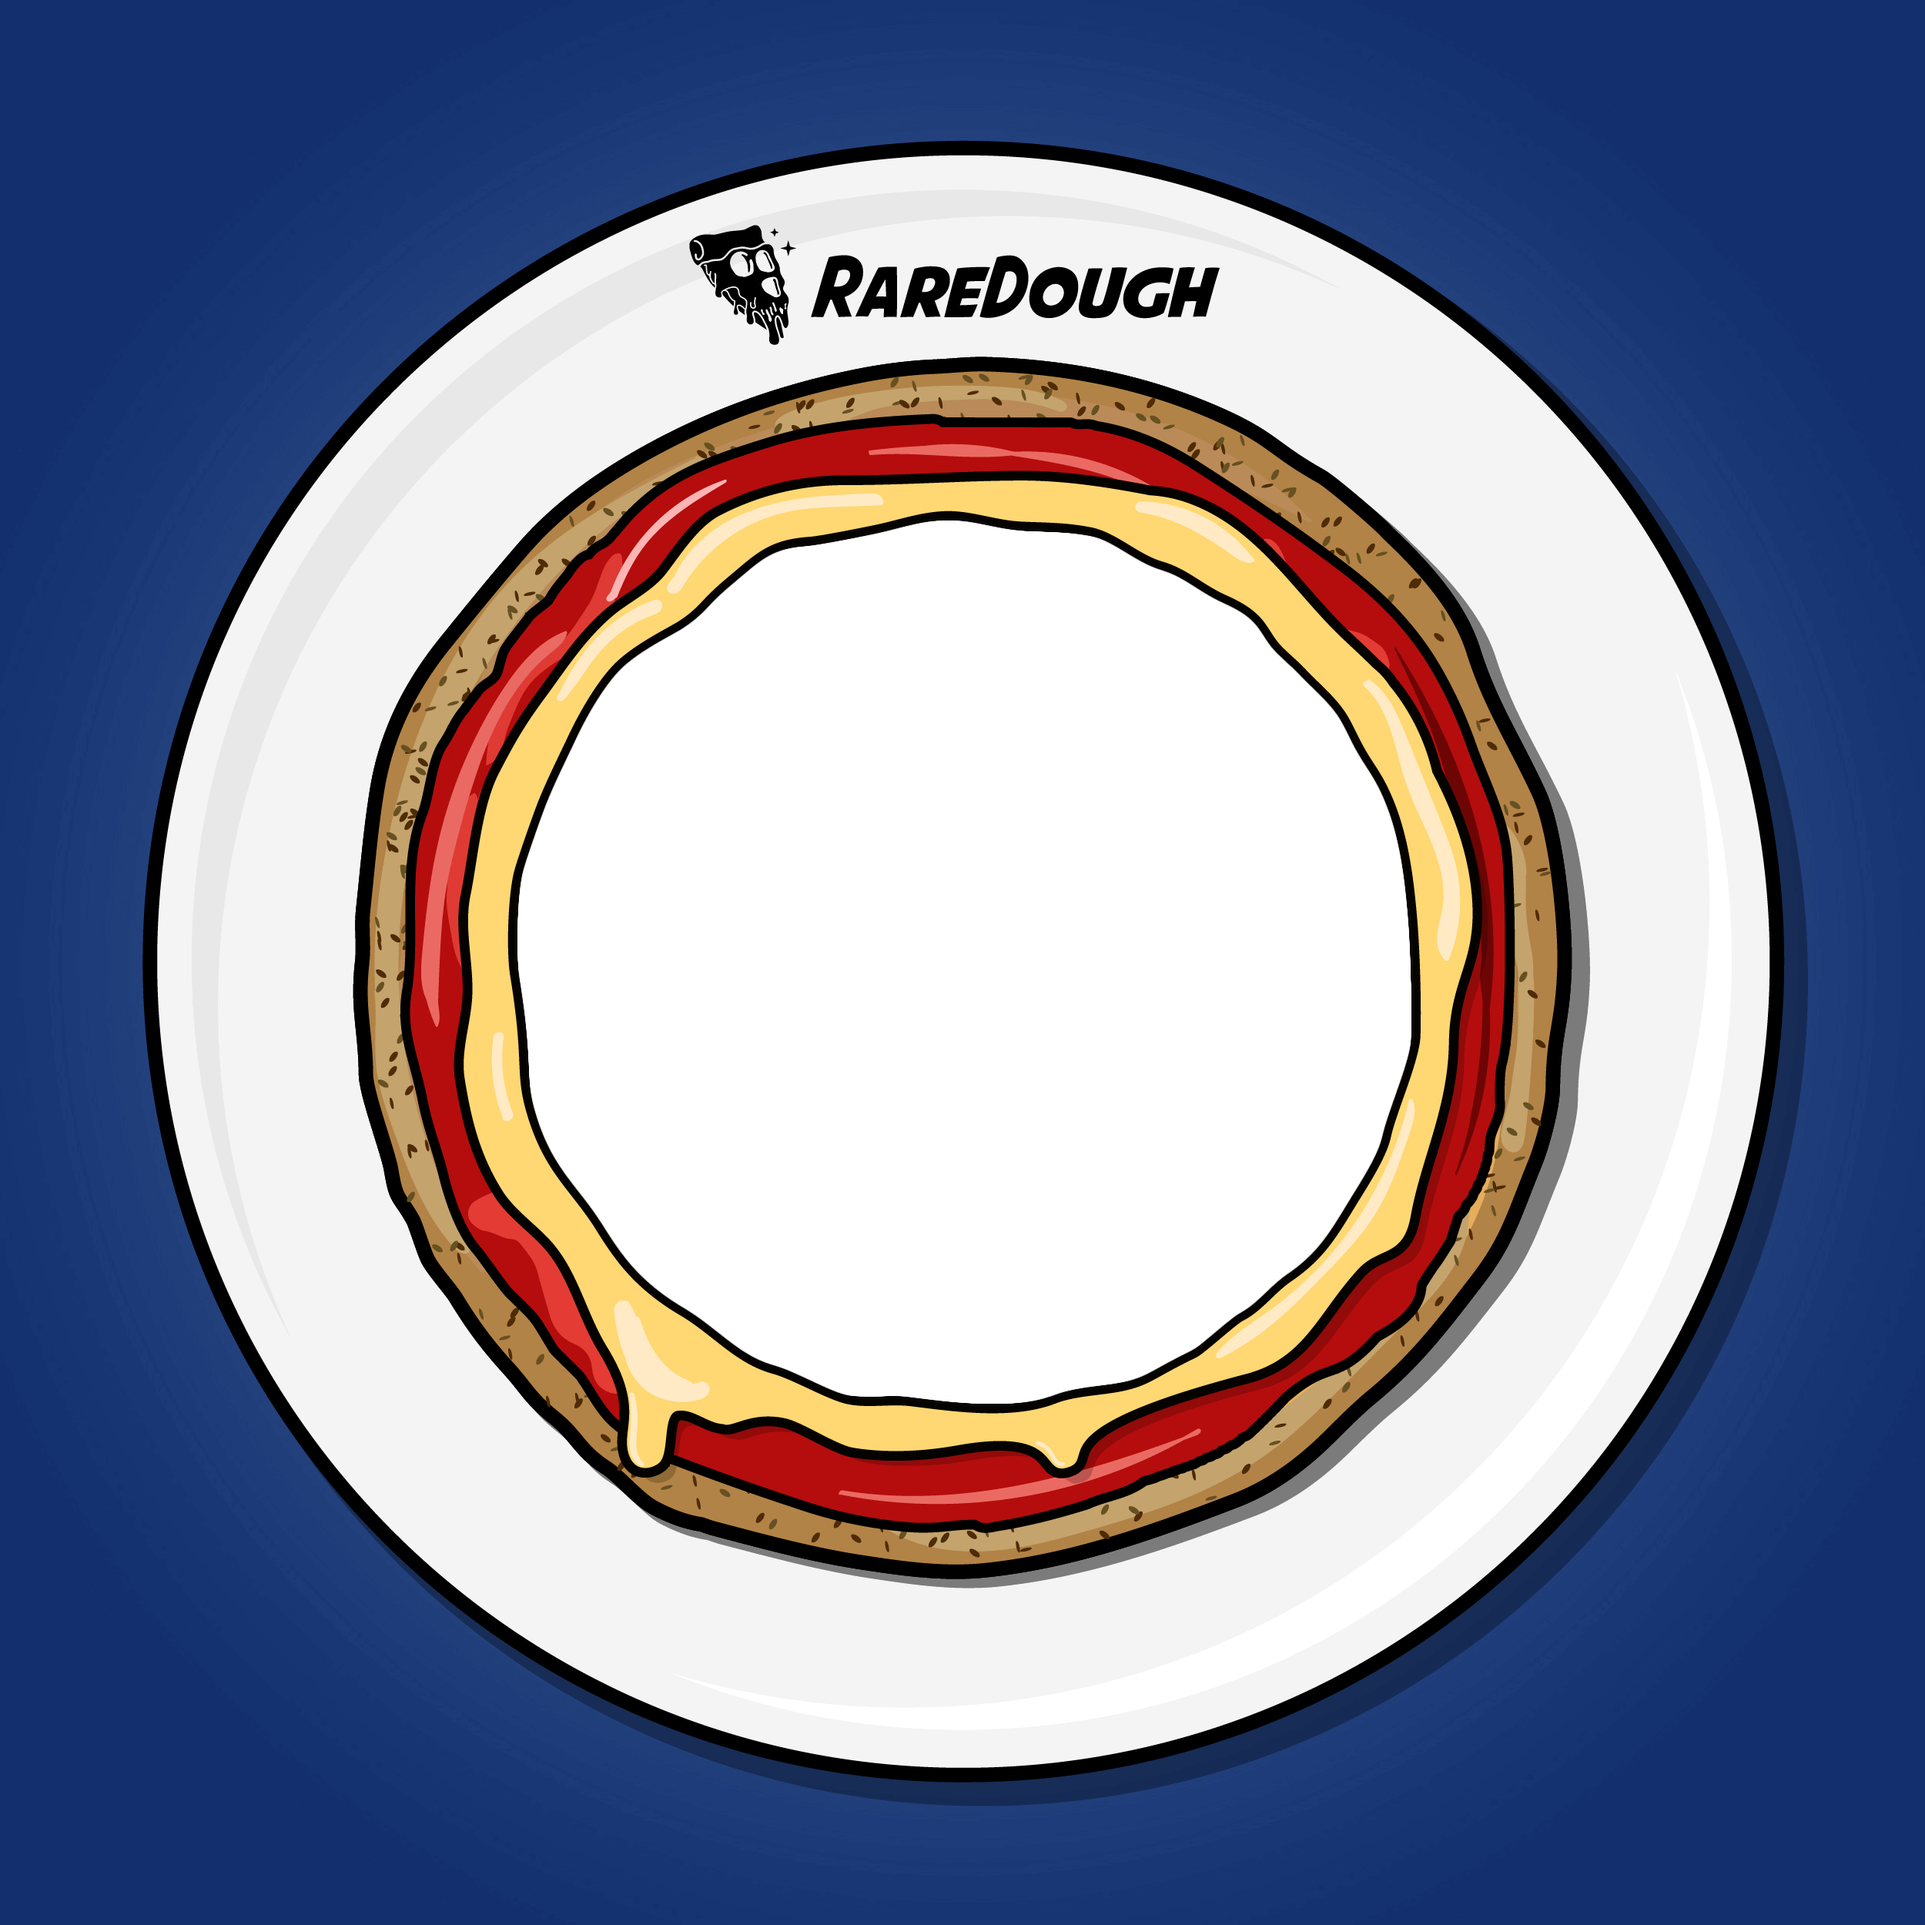
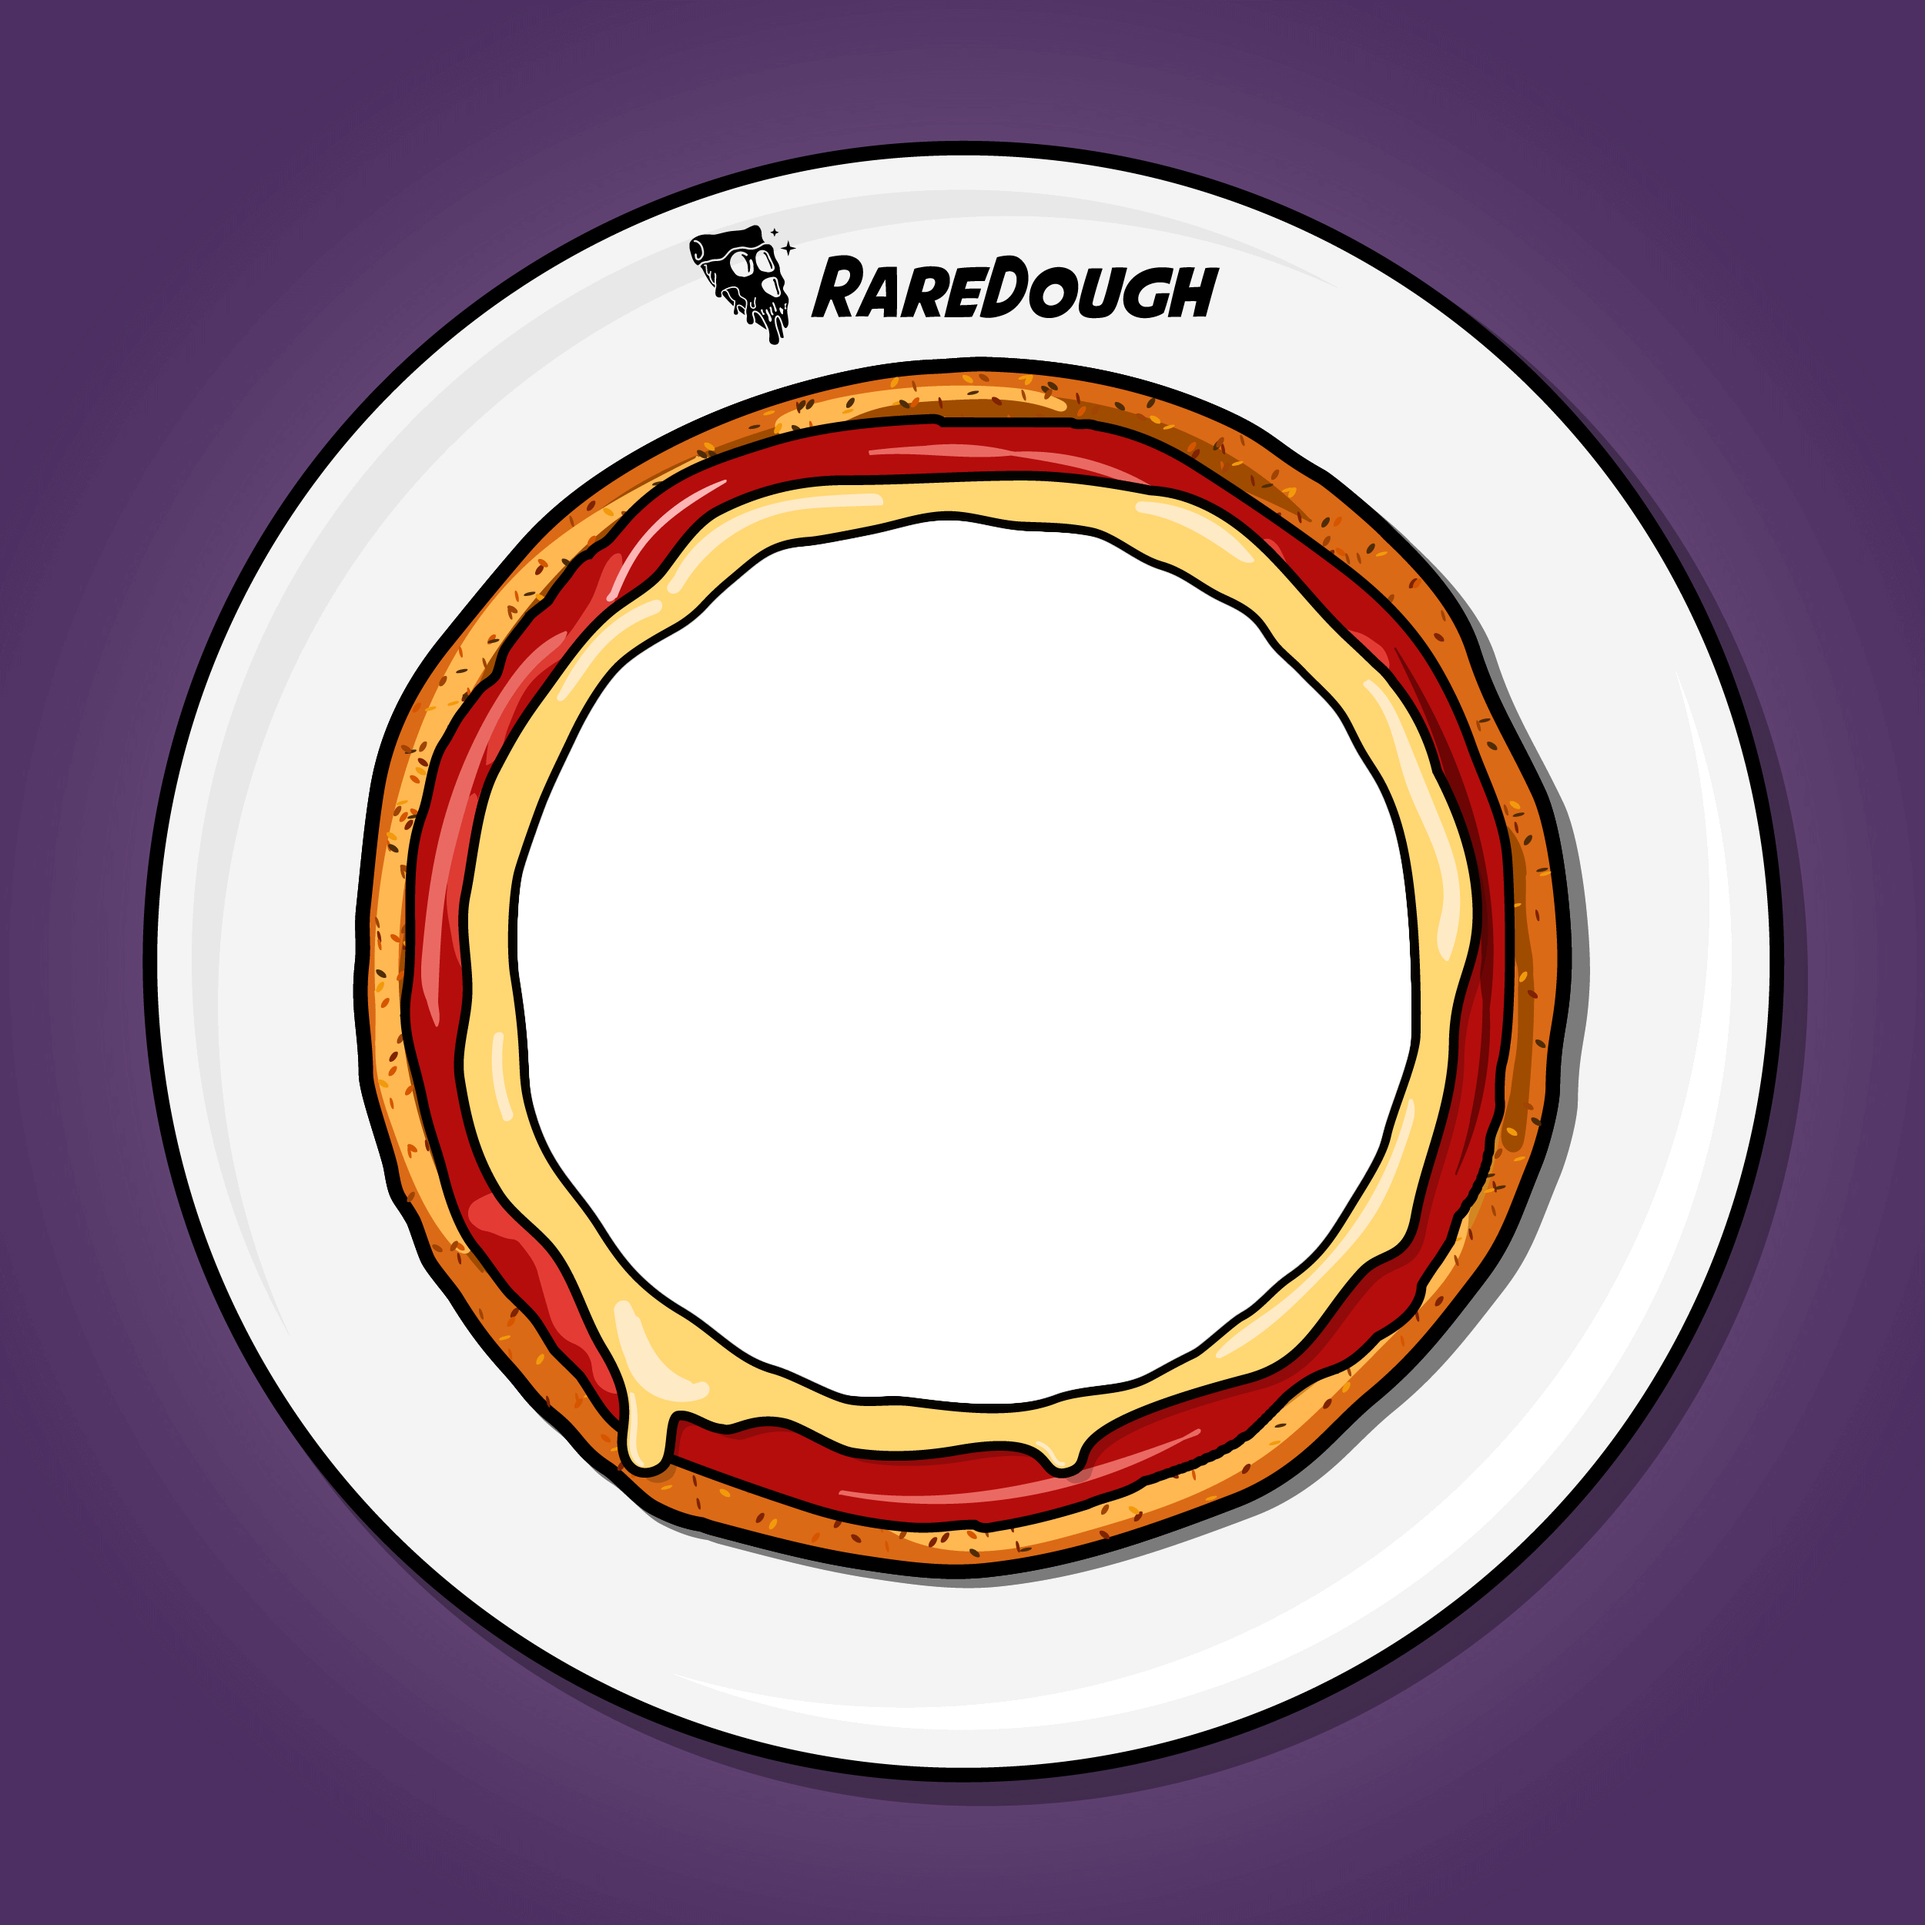
Additional changes to pizza form

diff --git a/js/community-pizza-form.js b/js/community-pizza-form.js
@@ -227,8 +227,9 @@
 		let $this = $(this);
 
 		if (!$this.attr('disabled')) {
-			// Get supply value
-			let tokenSupply = $('input[name="token-select-box"]:checked').val();
+			// Get supply value and set default token price
+			let tokenSupply = $('input[name="token-select-box"]:checked').val(),
+				tokenPrice = '100';
 
 			// Disable buy button and add loading animation
 			$('#buy-token').attr('disabled', true);
@@ -241,8 +242,12 @@
 			// Reduce opacity of unselected options
 			$('input[name="token-select-box"]:not(:checked)').parent().addClass('unselected');
 			
+			// Change price for 500 supply token
+			if (tokenSupply == '500') {
+				tokenPrice = '1000';
+			}
 			// Call create pizza method
-			createPizza(web3.utils.toWei('100', 'ether'), tokenSupply);
+			createPizza(web3.utils.toWei(tokenPrice, 'ether'), tokenSupply);
 		}
 	});
 
@@ -447,7 +452,9 @@
 	$('#submit-form').click(function(e) {
 		e.preventDefault();
 
-		let isvalid = $form.valid();
+		let isvalid = $form.valid(),
+			dataURL = null;
+
 		if (isvalid) {
 			// Check if form is already submitting
 			if ($form.hasClass('is-uploading')) return false;
@@ -469,7 +476,7 @@
 				width: 1000,
 				height: 1000
 			}).then(canvas => {
-		        var dataURL = canvas.toDataURL();
+		        dataURL = canvas.toDataURL();
 	            $.ajax({
 	                type: 'POST',
 	                url: '/inc/save-pizza',
@@ -485,6 +492,7 @@
 	                    discord: document.getElementsByName('discord-username')[0].value
 	                }
 	            }).done(function(data) {
+					$('#image-preview').attr('src', dataURL);
 					$('section.mint-section, #mint-nav a').removeClass('previous-step active-step');
 					$('#mint-nav ol').attr('data-step', 4);
 					$('section.mint-section').removeClass('active-step');

diff --git a/css/community-pizza.css b/css/community-pizza.css
@@ -416,6 +416,20 @@ section[data-step="1"] label.radio-label {
             box-shadow: 0px 0px 10px #ff1f00;
         }
 
+.token-cost {
+    display:flex;
+    align-items:center;
+    width:100%;
+}
+    .token-cost i {
+        display:inline-block;
+        width:16px;
+        height:16px;
+        background-image:url("../img/bpac-sm-icon.svg");
+        background-size:cover;
+        background-repeat:no-repeat;
+    }
+
 /* Step 2 */
 section[data-step="2"] label {
     display:flex;
@@ -438,6 +452,29 @@ section[data-step="2"] .token-preview {
         box-shadow: 0px 0px 10px #ff1f00;
     }
 
+/* Step 4 */
+.submit-checkmark {
+    display:block;
+    width:36px;
+    height:25px;
+    background-image:url("../img/check.svg");
+    background-size:cover;
+    background-repeat:no-repeat;
+    margin:0 auto 24px;
+}
+.image-preview {
+    display:block;
+    width:200px;
+    height:200px;
+    margin:0 auto;
+    border: 1px solid #292437;
+    border-radius: 10px;
+    margin-bottom:24px;
+    overflow:hidden;
+}
+    .image-preview img {
+        width:100%;
+    }
 
 /* Pizza Oven */
 #pizza-oven {

diff --git a/community-pizza-form.php b/community-pizza-form.php
@@ -45,21 +45,25 @@ include 'header.php';
                             <?= number_format(500); ?>
                             <input name="token-select-box" value="500" type="radio" />
                             <img src="/custom-mint/backgrounds/500.png" />
+                            <span class="token-cost mt-2"><i class="me-2"></i>1,000</span>
                         </label>
                         <label class="radio-label">
                             <?= number_format(1000); ?>
                             <input name="token-select-box" value="1000" type="radio" />
                             <img src="/custom-mint/backgrounds/1000.png" />
+                            <span class="token-cost mt-2"><i class="me-2"></i>100</span>
                         </label>
                         <label class="radio-label">
                             <?= number_format(5000); ?>
                             <input name="token-select-box" value="5000" type="radio" />
                             <img src="/custom-mint/backgrounds/5000.png" />
+                            <span class="token-cost mt-2"><i class="me-2"></i>100</span>
                         </label>
                         <label class="radio-label">
                             <?= number_format(10000); ?>
                             <input name="token-select-box" value="10000" type="radio" />
                             <img src="/custom-mint/backgrounds/10000.png" />
+                            <span class="token-cost mt-2"><i class="me-2"></i>100</span>
                         </label>
                     </div>
                 </div>
@@ -160,8 +164,15 @@ include 'header.php';
         <div class="container">
             <div class="row justify-content-center">
                 <div class="col-md-7 col-lg-5">
-                    <h2>4. Your RareDough Pizza has been submitted!</h2>
-                    <p>Please wait for a moderator to review and activate your pizza, at which time you will be able to activate the sale of your pizza in our shop. In the meantime, <a href="/pizza-oven">check out what's cookin'</a> in the oven!</p>
+                    <span class="submit-checkmark"></span>
+                    <h2>Your RareDough Pizza has been submitted!</h2>
+                    <div class="image-preview">
+                        <img id="image-preview" src="" />
+                    </div>
+                    <p>Please wait for a moderator to review and activate your pizza, at which time you will be able to activate the sale of your pizza in our shop. In the meantime, check out what's cookin' in the oven!</p>
+                    <div class="text-center">
+                        <a href="/pizza-oven" class="mainBtn light">Pizza Oven</a>
+                    </div>
                 </div>
             </div>
         </div>

diff --git a/header.php b/header.php
@@ -115,7 +115,7 @@
     <link rel="stylesheet" href="./css/lightbox.min.css" />
     <link rel="stylesheet" href="./css/style.css?v=1.0.7" />
     <?php if ( $page == 'community-pizza-form' || $page == 'pizza-oven' ) : ?>
-      <link rel="stylesheet" href="./css/community-pizza.css?v=1.0.9" />
+      <link rel="stylesheet" href="./css/community-pizza.css?v=1.0.10" />
     <?php endif; ?>
   </head>
   <body class="<?= $page; ?>" data-page="<?= $page; ?>" onload="connectWallet()">

diff --git a/footer.php b/footer.php
@@ -70,7 +70,7 @@
       <script src="./js/html2canvas.min.js"></script>
       <script src="./js/jquery.validate.min.js"></script>
       <script src="./js/additional-methods.min.js"></script>
-      <script src="./js/community-pizza-form.js?v=1.0.12"></script>
+      <script src="./js/community-pizza-form.js?v=1.0.13"></script>
     <?php endif; ?>
 
     <?php if ($page == 'pizza-oven'): ?>
